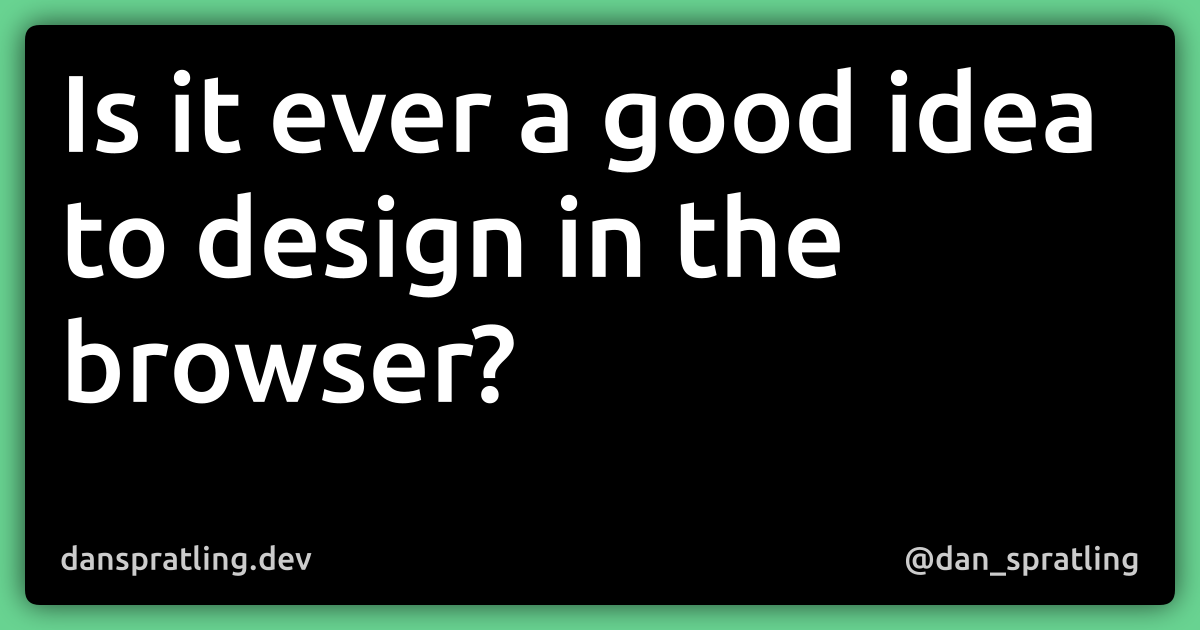
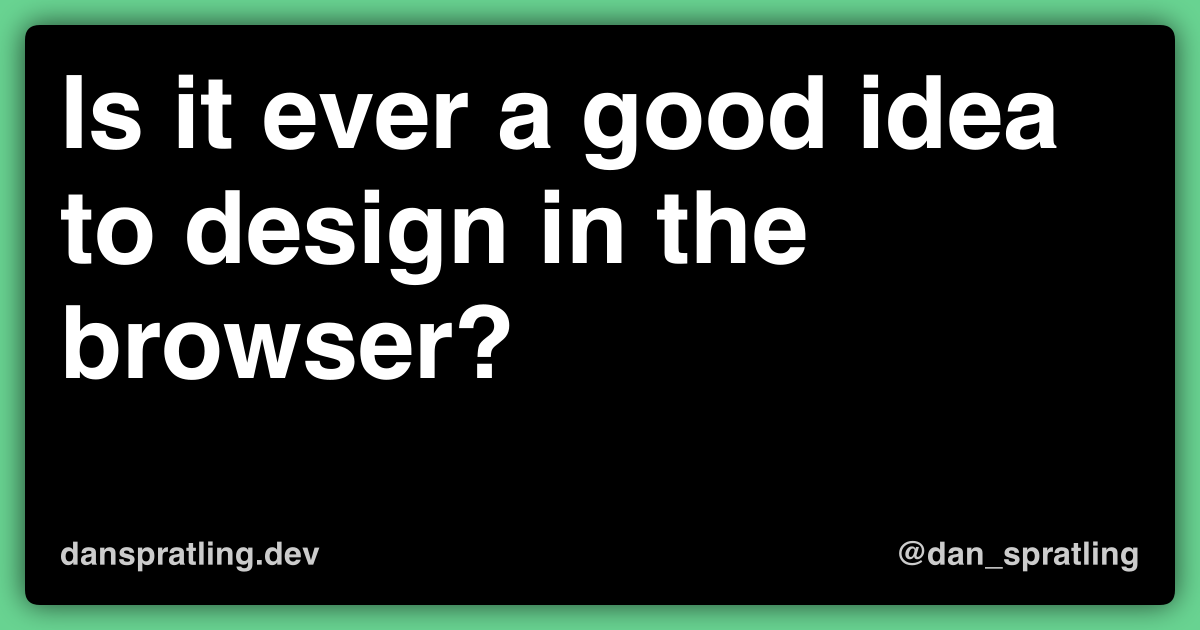
Reverts socialImage custom font changes

diff --git a/functions/socialImage.js b/functions/socialImage.js
@@ -1,8 +1,8 @@
 const fs = require('fs')
 const { registerFont, createCanvas } = require('canvas')
-registerFont('static/fonts/ubuntu/4iCv6KVjbNBYlgoCjC3jsGyL.woff', {
-  family: 'Ubuntu',
-})
+// registerFont('static/fonts/ubuntu/4iCv6KVjbNBYlgoCjC3jsGyL.woff', {
+//   family: 'Ubuntu',
+// })
 
 function generateImage({ title, slug }) {
   //define canvas size
@@ -31,7 +31,8 @@ function generateImage({ title, slug }) {
   // context.fillRect(25, 25, width, height)
 
   //set the copy style
-  context.font = 'bold 82pt Ubuntu'
+  // context.font = 'bold 82pt Ubuntu'
+  context.font = 'bold 76pt Ubuntu'
   context.textAlign = 'left'
   context.textBaseline = 'top'
   context.fillStyle = '#fff'
@@ -43,13 +44,15 @@ function generateImage({ title, slug }) {
   //redraw the title over multiple lines
   const words = title.split(' ')
   let line = ''
-  let fromTop = 50
+  // let fromTop = 50
+  let fromTop = 70
   words.forEach(word => {
     let testLine = line + word + ' '
     if (context.measureText(testLine).width > width) {
       context.fillText(line.trim(), 60, fromTop)
       line = word + ' '
-      fromTop = fromTop + 125
+      // fromTop = fromTop + 125
+      fromTop = fromTop + 115
     } else {
       line = line + word + ' '
     }
